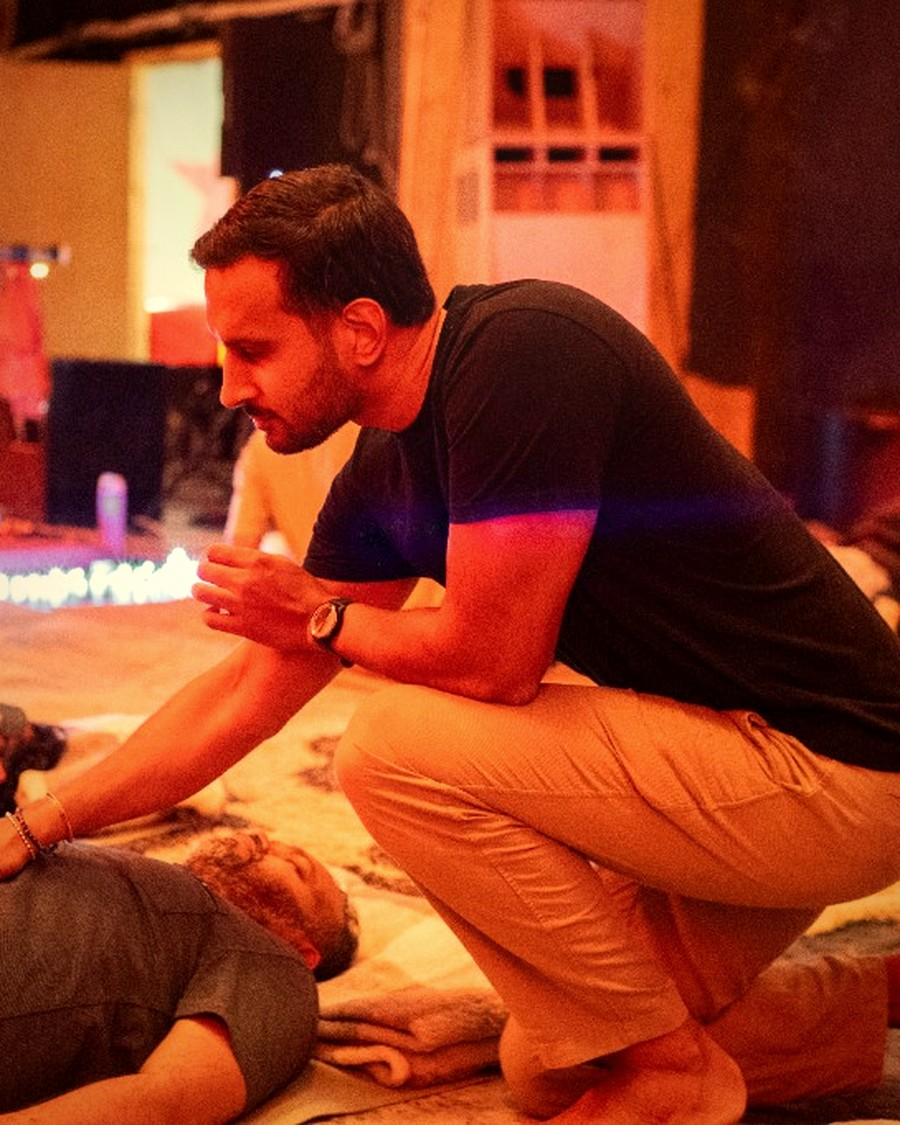
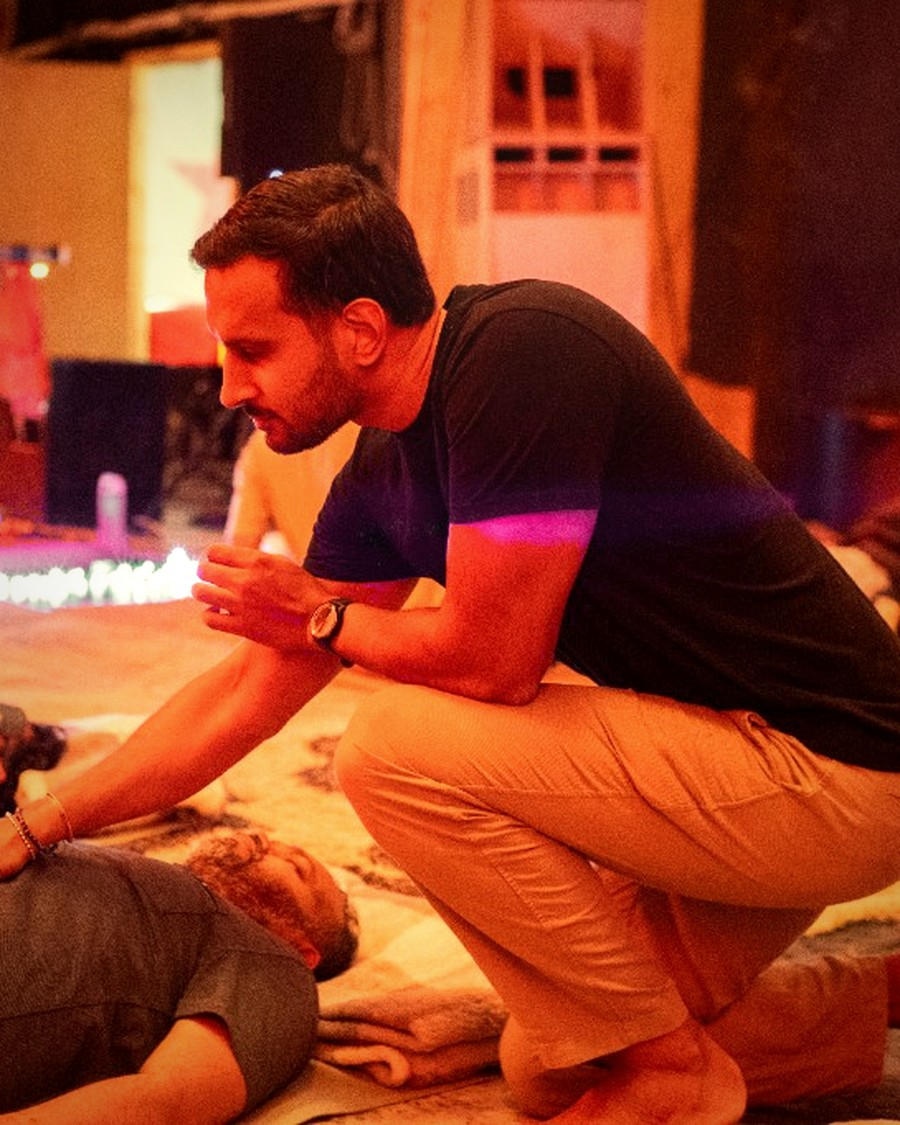
Refactor styles and update image assets for improved presentation
- Removed the event arc styles from styles.css to streamline the design.
- Updated multiple image assets for enhanced quality and consistency across the site.
- Improved the image processing script to refine the visual output of hero images.

Changed region(s): [[0.0, 0.4356, 0.1867, 0.5289], [0.5289, 0.4356, 0.6533, 0.4978], [0.4044, 0.4978, 0.4356, 0.5289]]

diff --git a/styles.css b/styles.css
@@ -1537,20 +1537,6 @@ p {
   line-height: 1.35;
 }
 
-.event-arc {
-  display: flex;
-  flex-wrap: wrap;
-  gap: 6px 0;
-  font-size: 0.88rem;
-  color: var(--paper);
-}
-
-.event-arc li:not(:last-child)::after {
-  content: "→";
-  margin: 0 10px;
-  color: var(--clay);
-}
-
 .event-gallery {
   display: grid;
   grid-template-columns: repeat(2, minmax(0, 1fr));

diff --git a/tmp/make_hero_facilitating.py b/tmp/make_hero_facilitating.py
@@ -26,22 +26,23 @@ a[..., 0] = a[..., 0] * 1.05 + 5
 a[..., 1] = a[..., 1] * 1.02 + 2
 a[..., 2] = a[..., 2] * 0.90
 
-# Soften the cool lens-flare streak across the mid torso / arm
 y = np.linspace(0, 1, out_h, dtype=np.float32)[:, None]
 x = np.linspace(0, 1, out_w, dtype=np.float32)[None, :]
-cool = np.clip((a[..., 2] - a[..., 0]) / 35.0, 0, 1)
-# Horizontal band + slight left→right falloff where the flare sits
-band = np.exp(-0.5 * ((y - 0.50) / 0.11) ** 2)
-horiz = np.exp(-0.5 * ((x - 0.42) / 0.35) ** 2)
-flare = np.clip(cool * band * horiz * 1.6, 0, 1)
-# Replace blue with a warm sample of nearby amber
-warm = (a[..., 0] * 0.55 + a[..., 1] * 0.35 + 18)
-a[..., 2] = a[..., 2] * (1 - flare) + warm * flare
-a[..., 0] = a[..., 0] * (1 - flare * 0.15) + (a[..., 0] + 10) * (flare * 0.15)
-a[..., 1] = a[..., 1] * (1 - flare * 0.1) + (a[..., 1] + 6) * (flare * 0.1)
+
+# Soften the purple/blue lens-flare streak across the mid torso / arm.
+# Magenta flare: blue high vs green, in a thin horizontal band.
+purple = np.clip((a[..., 2] - a[..., 1]) / 28.0, 0, 1)
+blueish = np.clip((a[..., 2] - a[..., 0] * 0.7) / 40.0, 0, 1)
+band = np.exp(-0.5 * ((y - 0.49) / 0.07) ** 2)
+horiz = np.exp(-0.5 * ((x - 0.45) / 0.42) ** 2)
+flare = np.clip(np.maximum(purple, blueish) * band * horiz * 2.2, 0, 1)
+# Paint the streak with neighbouring warm amber instead of blue
+amber = a[..., 0] * 0.50 + a[..., 1] * 0.40 + 12
+a[..., 2] = a[..., 2] * (1 - flare) + amber * flare
+a[..., 0] = np.minimum(255, a[..., 0] + flare * 8)
+a[..., 1] = np.minimum(255, a[..., 1] + flare * 4)
 
 # Gentle face lift
-x = np.linspace(0, 1, out_w, dtype=np.float32)[None, :]
 face = np.exp(-(((x - 0.58) / 0.22) ** 2 + ((y - 0.22) / 0.18) ** 2))
 a += face[..., None] * 14
 
